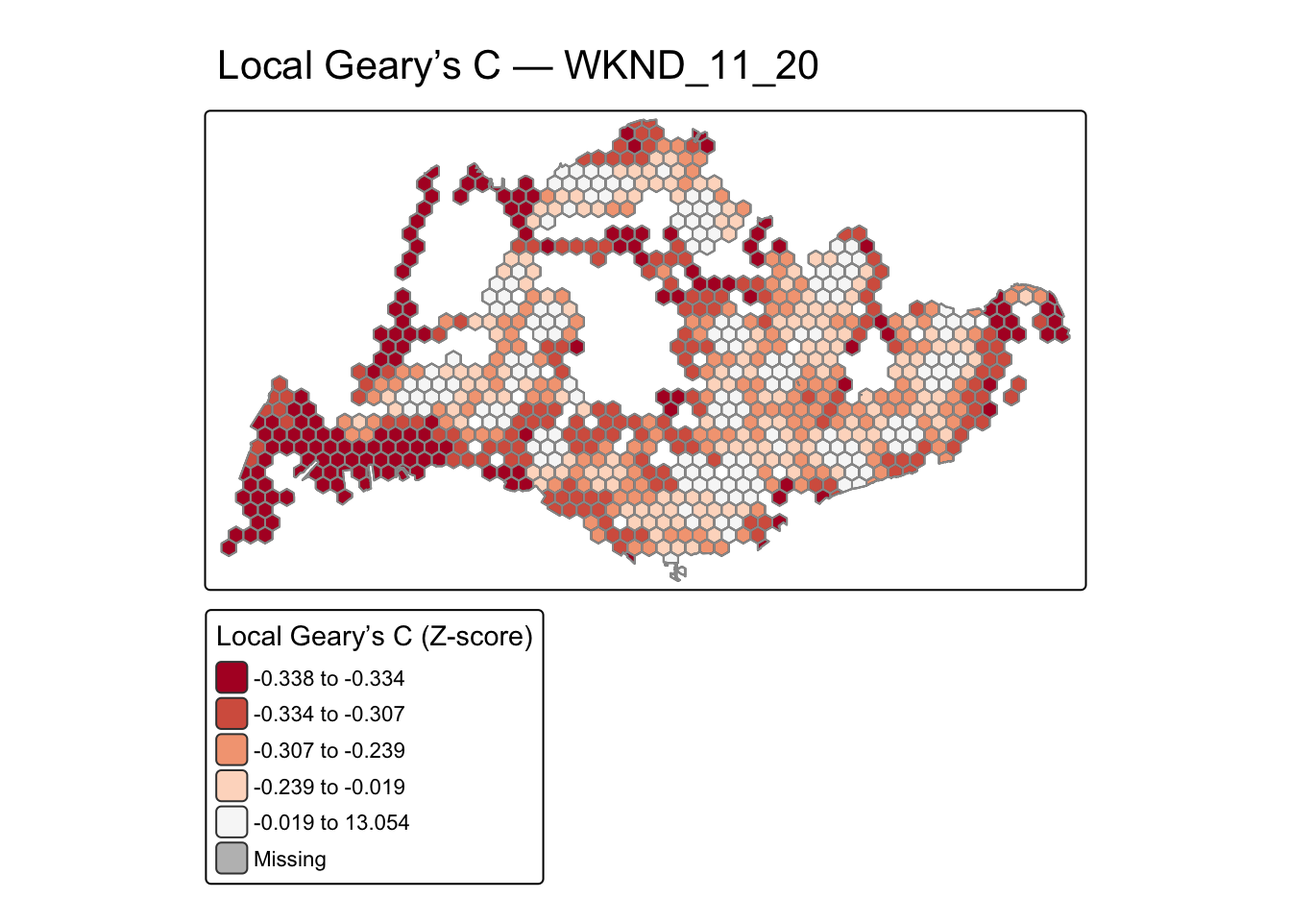
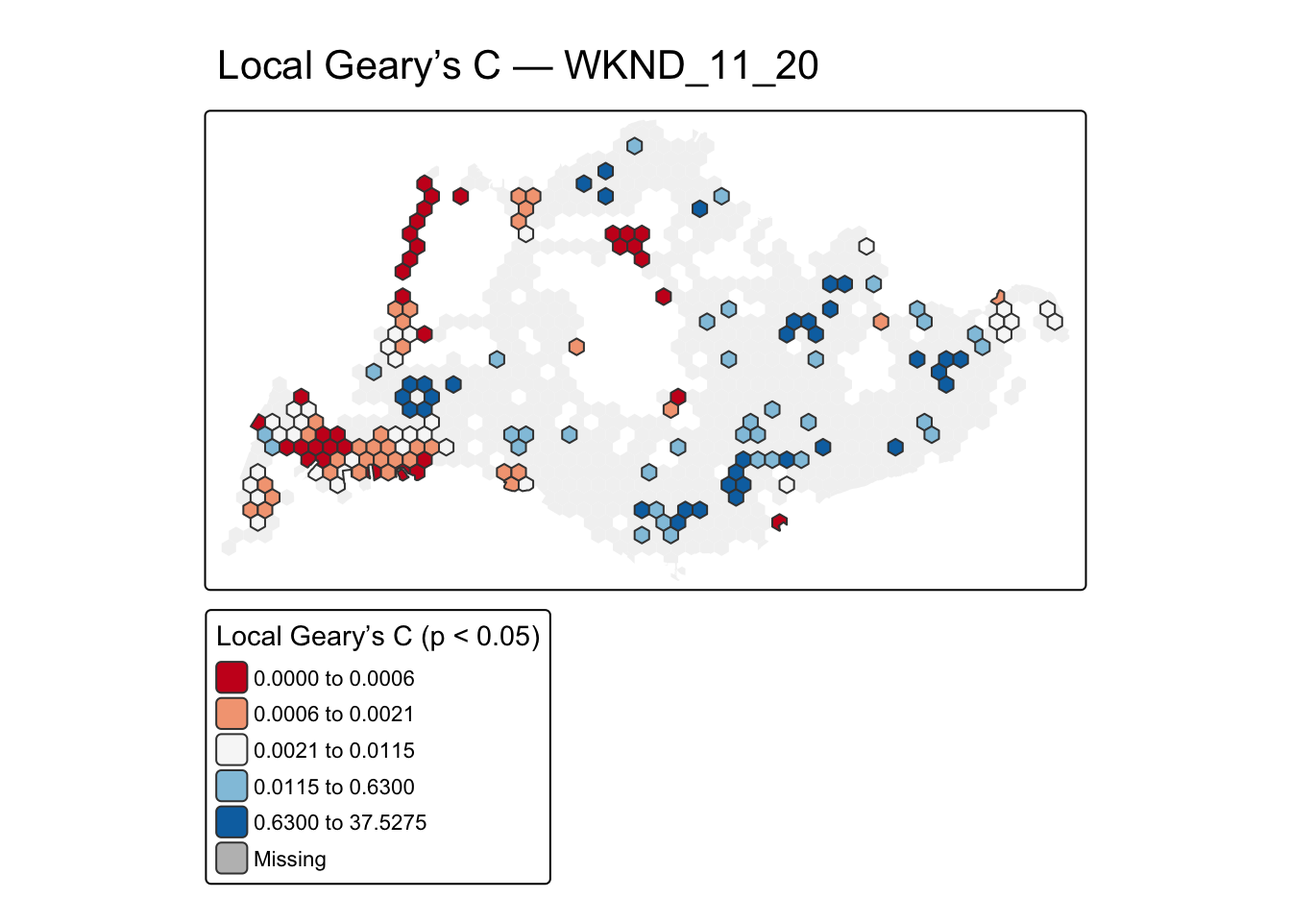
update error

Changed region(s): [[0.1562, 0.125, 0.8438, 0.625], [0.1562, 0.7188, 0.3438, 0.9062], [0.3125, 0.6562, 0.4375, 0.9688]]

diff --git a/_site/Take-home_Ex02/Take-home_Ex02.html b/_site/Take-home_Ex02/Take-home_Ex02.html
@@ -261,7 +261,7 @@ pre > code.sourceCode > span > a:first-child::before { text-decoration: underlin
   <li><a href="#setup-and-preparation" id="toc-setup-and-preparation" class="nav-link" data-scroll-target="#setup-and-preparation">3. Setup and Preparation</a>
   <ul class="collapse">
   <li><a href="#required-r-packages" id="toc-required-r-packages" class="nav-link" data-scroll-target="#required-r-packages">3.1 Required R Packages</a></li>
-  <li><a href="#directory-and-file-setup" id="toc-directory-and-file-setup" class="nav-link" data-scroll-target="#directory-and-file-setup"><strong>3.2 Directory and File Setup</strong></a></li>
+  <li><a href="#directory-and-file-setup" id="toc-directory-and-file-setup" class="nav-link" data-scroll-target="#directory-and-file-setup">3.2 Directory and File Setup</a></li>
   <li><a href="#data-wrangling" id="toc-data-wrangling" class="nav-link" data-scroll-target="#data-wrangling">3.3 Data Wrangling</a>
   <ul class="collapse">
   <li><a href="#import-geospatial-data-ura-kml-bus-stops" id="toc-import-geospatial-data-ura-kml-bus-stops" class="nav-link" data-scroll-target="#import-geospatial-data-ura-kml-bus-stops">3.3.1 Import geospatial data (URA KML &amp; Bus Stops)</a></li>
@@ -462,7 +462,7 @@ Managing peak-hour congestion and adapting to shifting post-pandemic travel beha
 </ul>
 </section>
 <section id="directory-and-file-setup" class="level2">
-<h2 class="anchored" data-anchor-id="directory-and-file-setup"><strong>3.2 Directory and File Setup</strong></h2>
+<h2 class="anchored" data-anchor-id="directory-and-file-setup">3.2 Directory and File Setup</h2>
 <p>All datasets are organized into two main folders within the project directory to ensure reproducibility and clarity of data sources.</p>
 <pre><code>Take-home_Ex02/
 ├── data/
@@ -1083,53 +1083,66 @@ During the weekend,&nbsp;<strong>High–High clusters</strong>&nbsp;reappear aro
 <div class="sourceCode cell-code" id="cb33"><pre class="sourceCode r code-with-copy"><code class="sourceCode r"><span id="cb33-1"><a href="#cb33-1" aria-hidden="true" tabindex="-1"></a>sf<span class="sc">::</span><span class="fu">sf_use_s2</span>(<span class="cn">FALSE</span>)</span>
 <span id="cb33-2"><a href="#cb33-2" aria-hidden="true" tabindex="-1"></a><span class="fu">tmap_mode</span>(<span class="st">"plot"</span>)</span>
 <span id="cb33-3"><a href="#cb33-3" aria-hidden="true" tabindex="-1"></a></span>
-<span id="cb33-4"><a href="#cb33-4" aria-hidden="true" tabindex="-1"></a>plot_geary_one_slot <span class="ot">&lt;-</span> <span class="cf">function</span>(sf_all, slot_label, <span class="at">var =</span> <span class="st">"tap_on"</span>, <span class="at">alpha =</span> <span class="fl">0.05</span>) {</span>
-<span id="cb33-5"><a href="#cb33-5" aria-hidden="true" tabindex="-1"></a>  <span class="co"># 1) Select target slot and validate geometry</span></span>
-<span id="cb33-6"><a href="#cb33-6" aria-hidden="true" tabindex="-1"></a>  df <span class="ot">&lt;-</span> sf_all <span class="sc">%&gt;%</span></span>
-<span id="cb33-7"><a href="#cb33-7" aria-hidden="true" tabindex="-1"></a>    <span class="fu">filter</span>(slot <span class="sc">==</span> slot_label) <span class="sc">%&gt;%</span></span>
-<span id="cb33-8"><a href="#cb33-8" aria-hidden="true" tabindex="-1"></a>    <span class="fu">st_make_valid</span>() <span class="sc">%&gt;%</span></span>
-<span id="cb33-9"><a href="#cb33-9" aria-hidden="true" tabindex="-1"></a>    <span class="fu">filter</span>(<span class="sc">!</span><span class="fu">is.na</span>(.data[[var]]))</span>
-<span id="cb33-10"><a href="#cb33-10" aria-hidden="true" tabindex="-1"></a></span>
-<span id="cb33-11"><a href="#cb33-11" aria-hidden="true" tabindex="-1"></a>  <span class="co"># Skip if not enough variation</span></span>
-<span id="cb33-12"><a href="#cb33-12" aria-hidden="true" tabindex="-1"></a>  <span class="cf">if</span> (<span class="fu">nrow</span>(df) <span class="sc">==</span> <span class="dv">0</span> <span class="sc">||</span> <span class="fu">length</span>(<span class="fu">unique</span>(df[[var]])) <span class="sc">&lt;=</span> <span class="dv">1</span>) {</span>
-<span id="cb33-13"><a href="#cb33-13" aria-hidden="true" tabindex="-1"></a>    <span class="fu">message</span>(<span class="fu">sprintf</span>(<span class="st">"[GearyC] '%s' slot: insufficient variation, skipped."</span>, slot_label))</span>
-<span id="cb33-14"><a href="#cb33-14" aria-hidden="true" tabindex="-1"></a>    <span class="fu">return</span>(<span class="cn">NULL</span>)</span>
-<span id="cb33-15"><a href="#cb33-15" aria-hidden="true" tabindex="-1"></a>  }</span>
-<span id="cb33-16"><a href="#cb33-16" aria-hidden="true" tabindex="-1"></a></span>
-<span id="cb33-17"><a href="#cb33-17" aria-hidden="true" tabindex="-1"></a>  <span class="co"># 2) Build neighborhood structure (Queen contiguity + snap)</span></span>
-<span id="cb33-18"><a href="#cb33-18" aria-hidden="true" tabindex="-1"></a>  nb <span class="ot">&lt;-</span> <span class="fu">poly2nb</span>(df, <span class="at">queen =</span> <span class="cn">TRUE</span>, <span class="at">snap =</span> <span class="dv">2</span>)</span>
-<span id="cb33-19"><a href="#cb33-19" aria-hidden="true" tabindex="-1"></a>  no_neigh <span class="ot">&lt;-</span> <span class="fu">card</span>(nb) <span class="sc">==</span> <span class="dv">0</span></span>
-<span id="cb33-20"><a href="#cb33-20" aria-hidden="true" tabindex="-1"></a>  <span class="cf">if</span> (<span class="fu">any</span>(no_neigh)) {</span>
-<span id="cb33-21"><a href="#cb33-21" aria-hidden="true" tabindex="-1"></a>    keep_idx <span class="ot">&lt;-</span> <span class="fu">which</span>(<span class="sc">!</span>no_neigh)</span>
-<span id="cb33-22"><a href="#cb33-22" aria-hidden="true" tabindex="-1"></a>    df <span class="ot">&lt;-</span> df[keep_idx, ]</span>
-<span id="cb33-23"><a href="#cb33-23" aria-hidden="true" tabindex="-1"></a>    nb <span class="ot">&lt;-</span> <span class="fu">subset</span>(nb, <span class="sc">!</span>no_neigh)</span>
+<span id="cb33-4"><a href="#cb33-4" aria-hidden="true" tabindex="-1"></a>plot_geary_one_slot <span class="ot">&lt;-</span> <span class="cf">function</span>(sf_all, slot_label, <span class="at">var =</span> <span class="st">"tap_on"</span>,</span>
+<span id="cb33-5"><a href="#cb33-5" aria-hidden="true" tabindex="-1"></a>                                <span class="at">alpha =</span> <span class="fl">0.05</span>, <span class="at">nsim =</span> <span class="dv">499</span>) {</span>
+<span id="cb33-6"><a href="#cb33-6" aria-hidden="true" tabindex="-1"></a>  <span class="co"># 1) Filter target slot and validate geometries</span></span>
+<span id="cb33-7"><a href="#cb33-7" aria-hidden="true" tabindex="-1"></a>  df <span class="ot">&lt;-</span> sf_all <span class="sc">%&gt;%</span></span>
+<span id="cb33-8"><a href="#cb33-8" aria-hidden="true" tabindex="-1"></a>    dplyr<span class="sc">::</span><span class="fu">filter</span>(slot <span class="sc">==</span> slot_label) <span class="sc">%&gt;%</span></span>
+<span id="cb33-9"><a href="#cb33-9" aria-hidden="true" tabindex="-1"></a>    sf<span class="sc">::</span><span class="fu">st_make_valid</span>() <span class="sc">%&gt;%</span></span>
+<span id="cb33-10"><a href="#cb33-10" aria-hidden="true" tabindex="-1"></a>    dplyr<span class="sc">::</span><span class="fu">filter</span>(<span class="sc">!</span><span class="fu">is.na</span>(.data[[var]]))</span>
+<span id="cb33-11"><a href="#cb33-11" aria-hidden="true" tabindex="-1"></a></span>
+<span id="cb33-12"><a href="#cb33-12" aria-hidden="true" tabindex="-1"></a>  <span class="co"># Skip if there is no variation</span></span>
+<span id="cb33-13"><a href="#cb33-13" aria-hidden="true" tabindex="-1"></a>  <span class="cf">if</span> (<span class="fu">nrow</span>(df) <span class="sc">==</span> <span class="dv">0</span> <span class="sc">||</span> <span class="fu">length</span>(<span class="fu">unique</span>(df[[var]])) <span class="sc">&lt;=</span> <span class="dv">1</span>) {</span>
+<span id="cb33-14"><a href="#cb33-14" aria-hidden="true" tabindex="-1"></a>    <span class="fu">message</span>(<span class="fu">sprintf</span>(<span class="st">"[GearyC] '%s' slot: insufficient variation, skipped."</span>, slot_label))</span>
+<span id="cb33-15"><a href="#cb33-15" aria-hidden="true" tabindex="-1"></a>    <span class="fu">return</span>(<span class="cn">NULL</span>)</span>
+<span id="cb33-16"><a href="#cb33-16" aria-hidden="true" tabindex="-1"></a>  }</span>
+<span id="cb33-17"><a href="#cb33-17" aria-hidden="true" tabindex="-1"></a></span>
+<span id="cb33-18"><a href="#cb33-18" aria-hidden="true" tabindex="-1"></a>  <span class="co"># 2) Build neighbors &amp; weights with sfdep (what local_c_perm expects)</span></span>
+<span id="cb33-19"><a href="#cb33-19" aria-hidden="true" tabindex="-1"></a>  nb <span class="ot">&lt;-</span> sfdep<span class="sc">::</span><span class="fu">st_contiguity</span>(df)                <span class="co"># queen contiguity</span></span>
+<span id="cb33-20"><a href="#cb33-20" aria-hidden="true" tabindex="-1"></a>  iso <span class="ot">&lt;-</span> spdep<span class="sc">::</span><span class="fu">card</span>(nb) <span class="sc">==</span> <span class="dv">0</span>                   <span class="co"># drop isolates if any</span></span>
+<span id="cb33-21"><a href="#cb33-21" aria-hidden="true" tabindex="-1"></a>  <span class="cf">if</span> (<span class="fu">any</span>(iso)) {</span>
+<span id="cb33-22"><a href="#cb33-22" aria-hidden="true" tabindex="-1"></a>    df <span class="ot">&lt;-</span> df[<span class="sc">!</span>iso, ]</span>
+<span id="cb33-23"><a href="#cb33-23" aria-hidden="true" tabindex="-1"></a>    nb <span class="ot">&lt;-</span> sfdep<span class="sc">::</span><span class="fu">st_contiguity</span>(df)</span>
 <span id="cb33-24"><a href="#cb33-24" aria-hidden="true" tabindex="-1"></a>  }</span>
-<span id="cb33-25"><a href="#cb33-25" aria-hidden="true" tabindex="-1"></a>  lw <span class="ot">&lt;-</span> <span class="fu">nb2listw</span>(nb, <span class="at">style =</span> <span class="st">"W"</span>, <span class="at">zero.policy =</span> <span class="cn">TRUE</span>)</span>
+<span id="cb33-25"><a href="#cb33-25" aria-hidden="true" tabindex="-1"></a>  wt <span class="ot">&lt;-</span> sfdep<span class="sc">::</span><span class="fu">st_weights</span>(nb, <span class="at">style =</span> <span class="st">"W"</span>, <span class="at">allow_zero =</span> <span class="cn">TRUE</span>)</span>
 <span id="cb33-26"><a href="#cb33-26" aria-hidden="true" tabindex="-1"></a></span>
-<span id="cb33-27"><a href="#cb33-27" aria-hidden="true" tabindex="-1"></a>  <span class="co"># 3) Compute Local Geary’s C</span></span>
-<span id="cb33-28"><a href="#cb33-28" aria-hidden="true" tabindex="-1"></a>  lc <span class="ot">&lt;-</span> <span class="fu">localC</span>(df[[var]], lw, <span class="at">zero.policy =</span> <span class="cn">TRUE</span>)</span>
-<span id="cb33-29"><a href="#cb33-29" aria-hidden="true" tabindex="-1"></a>  df<span class="sc">$</span>localC <span class="ot">&lt;-</span> lc</span>
-<span id="cb33-30"><a href="#cb33-30" aria-hidden="true" tabindex="-1"></a></span>
-<span id="cb33-31"><a href="#cb33-31" aria-hidden="true" tabindex="-1"></a>  <span class="co"># 4) Standardize results (Z-score approximation)</span></span>
-<span id="cb33-32"><a href="#cb33-32" aria-hidden="true" tabindex="-1"></a>  z_lc <span class="ot">&lt;-</span> <span class="fu">scale</span>(lc)</span>
-<span id="cb33-33"><a href="#cb33-33" aria-hidden="true" tabindex="-1"></a>  df<span class="sc">$</span>z_score <span class="ot">&lt;-</span> <span class="fu">as.numeric</span>(z_lc)</span>
-<span id="cb33-34"><a href="#cb33-34" aria-hidden="true" tabindex="-1"></a>  df<span class="sc">$</span>sig <span class="ot">&lt;-</span> <span class="fu">ifelse</span>(<span class="fu">abs</span>(z_lc) <span class="sc">&gt;</span> <span class="fu">qnorm</span>(<span class="dv">1</span> <span class="sc">-</span> alpha<span class="sc">/</span><span class="dv">2</span>), <span class="st">"Significant"</span>, <span class="st">"Not Sig"</span>)</span>
+<span id="cb33-27"><a href="#cb33-27" aria-hidden="true" tabindex="-1"></a>  <span class="co"># 3) Local Geary's C with permutation p-values</span></span>
+<span id="cb33-28"><a href="#cb33-28" aria-hidden="true" tabindex="-1"></a>  x  <span class="ot">&lt;-</span> <span class="fu">as.numeric</span>(df[[var]])</span>
+<span id="cb33-29"><a href="#cb33-29" aria-hidden="true" tabindex="-1"></a>  lc <span class="ot">&lt;-</span> sfdep<span class="sc">::</span><span class="fu">local_c_perm</span>(<span class="at">x =</span> x, <span class="at">nb =</span> nb, <span class="at">wt =</span> wt,</span>
+<span id="cb33-30"><a href="#cb33-30" aria-hidden="true" tabindex="-1"></a>                            <span class="at">nsim =</span> nsim, <span class="at">alternative =</span> <span class="st">"two.sided"</span>)</span>
+<span id="cb33-31"><a href="#cb33-31" aria-hidden="true" tabindex="-1"></a>  lc_df <span class="ot">&lt;-</span> <span class="fu">as.data.frame</span>(lc)                    <span class="co"># ci, p_ci, p_ci_sim, ...</span></span>
+<span id="cb33-32"><a href="#cb33-32" aria-hidden="true" tabindex="-1"></a></span>
+<span id="cb33-33"><a href="#cb33-33" aria-hidden="true" tabindex="-1"></a>  df<span class="sc">$</span>geary <span class="ot">&lt;-</span> lc_df<span class="sc">$</span>ci</span>
+<span id="cb33-34"><a href="#cb33-34" aria-hidden="true" tabindex="-1"></a>  df<span class="sc">$</span>pval  <span class="ot">&lt;-</span> lc_df<span class="sc">$</span>p_ci_sim                    <span class="co"># or use p_ci</span></span>
 <span id="cb33-35"><a href="#cb33-35" aria-hidden="true" tabindex="-1"></a></span>
-<span id="cb33-36"><a href="#cb33-36" aria-hidden="true" tabindex="-1"></a>  <span class="co"># 5) Visualization</span></span>
-<span id="cb33-37"><a href="#cb33-37" aria-hidden="true" tabindex="-1"></a>  <span class="fu">tm_shape</span>(df) <span class="sc">+</span></span>
-<span id="cb33-38"><a href="#cb33-38" aria-hidden="true" tabindex="-1"></a>    <span class="fu">tm_polygons</span>(<span class="st">"z_score"</span>,</span>
-<span id="cb33-39"><a href="#cb33-39" aria-hidden="true" tabindex="-1"></a>                <span class="at">style =</span> <span class="st">"quantile"</span>,</span>
-<span id="cb33-40"><a href="#cb33-40" aria-hidden="true" tabindex="-1"></a>                <span class="at">n =</span> <span class="dv">5</span>,</span>
-<span id="cb33-41"><a href="#cb33-41" aria-hidden="true" tabindex="-1"></a>                <span class="at">palette =</span> <span class="st">"RdBu"</span>,</span>
-<span id="cb33-42"><a href="#cb33-42" aria-hidden="true" tabindex="-1"></a>                <span class="at">title =</span> <span class="st">"Local Geary’s C (Z-score)"</span>) <span class="sc">+</span></span>
-<span id="cb33-43"><a href="#cb33-43" aria-hidden="true" tabindex="-1"></a>    <span class="fu">tm_borders</span>(<span class="at">col =</span> <span class="st">"gray60"</span>) <span class="sc">+</span></span>
-<span id="cb33-44"><a href="#cb33-44" aria-hidden="true" tabindex="-1"></a>    <span class="fu">tm_layout</span>(<span class="at">main.title =</span> <span class="fu">paste</span>(<span class="st">"Local Geary’s C —"</span>, slot_label),</span>
-<span id="cb33-45"><a href="#cb33-45" aria-hidden="true" tabindex="-1"></a>              <span class="at">legend.outside =</span> <span class="cn">TRUE</span>)</span>
-<span id="cb33-46"><a href="#cb33-46" aria-hidden="true" tabindex="-1"></a>}</span>
-<span id="cb33-47"><a href="#cb33-47" aria-hidden="true" tabindex="-1"></a></span>
-<span id="cb33-48"><a href="#cb33-48" aria-hidden="true" tabindex="-1"></a><span class="co"># Run for all three time slots</span></span>
-<span id="cb33-49"><a href="#cb33-49" aria-hidden="true" tabindex="-1"></a>slots <span class="ot">&lt;-</span> <span class="fu">c</span>(<span class="st">"WKDY_AM_06_09"</span>, <span class="st">"WKDY_PM_17_20"</span>, <span class="st">"WKND_11_20"</span>)</span>
-<span id="cb33-50"><a href="#cb33-50" aria-hidden="true" tabindex="-1"></a><span class="cf">for</span> (s <span class="cf">in</span> slots) <span class="fu">print</span>(<span class="fu">plot_geary_one_slot</span>(hex_counts_sf, s))</span></code><button title="Copy to Clipboard" class="code-copy-button"><i class="bi"></i></button></pre></div>
+<span id="cb33-36"><a href="#cb33-36" aria-hidden="true" tabindex="-1"></a>  <span class="co"># 4) Keep only significant cells (p &lt; 0.05)</span></span>
+<span id="cb33-37"><a href="#cb33-37" aria-hidden="true" tabindex="-1"></a>  df_sig <span class="ot">&lt;-</span> dplyr<span class="sc">::</span><span class="fu">filter</span>(df, <span class="sc">!</span><span class="fu">is.na</span>(pval) <span class="sc">&amp;</span> pval <span class="sc">&lt;</span> alpha)</span>
+<span id="cb33-38"><a href="#cb33-38" aria-hidden="true" tabindex="-1"></a></span>
+<span id="cb33-39"><a href="#cb33-39" aria-hidden="true" tabindex="-1"></a>  <span class="co"># 5) Plot: grey background; color only significant cells</span></span>
+<span id="cb33-40"><a href="#cb33-40" aria-hidden="true" tabindex="-1"></a>  <span class="cf">if</span> (<span class="fu">nrow</span>(df_sig) <span class="sc">==</span> <span class="dv">0</span>) {</span>
+<span id="cb33-41"><a href="#cb33-41" aria-hidden="true" tabindex="-1"></a>    <span class="fu">return</span>(</span>
+<span id="cb33-42"><a href="#cb33-42" aria-hidden="true" tabindex="-1"></a>      tmap<span class="sc">::</span><span class="fu">tm_shape</span>(df) <span class="sc">+</span></span>
+<span id="cb33-43"><a href="#cb33-43" aria-hidden="true" tabindex="-1"></a>        tmap<span class="sc">::</span><span class="fu">tm_polygons</span>(<span class="at">col =</span> <span class="st">"grey95"</span>, <span class="at">border.alpha =</span> <span class="dv">0</span>) <span class="sc">+</span></span>
+<span id="cb33-44"><a href="#cb33-44" aria-hidden="true" tabindex="-1"></a>        tmap<span class="sc">::</span><span class="fu">tm_title</span>(<span class="fu">paste0</span>(<span class="st">"Local Geary’s C — "</span>, slot_label, <span class="st">" (no significant cells)"</span>)) <span class="sc">+</span></span>
+<span id="cb33-45"><a href="#cb33-45" aria-hidden="true" tabindex="-1"></a>        tmap<span class="sc">::</span><span class="fu">tm_layout</span>(<span class="at">legend.outside =</span> <span class="cn">TRUE</span>)</span>
+<span id="cb33-46"><a href="#cb33-46" aria-hidden="true" tabindex="-1"></a>    )</span>
+<span id="cb33-47"><a href="#cb33-47" aria-hidden="true" tabindex="-1"></a>  } <span class="cf">else</span> {</span>
+<span id="cb33-48"><a href="#cb33-48" aria-hidden="true" tabindex="-1"></a>    <span class="fu">return</span>(</span>
+<span id="cb33-49"><a href="#cb33-49" aria-hidden="true" tabindex="-1"></a>      tmap<span class="sc">::</span><span class="fu">tm_shape</span>(df) <span class="sc">+</span></span>
+<span id="cb33-50"><a href="#cb33-50" aria-hidden="true" tabindex="-1"></a>        tmap<span class="sc">::</span><span class="fu">tm_polygons</span>(<span class="at">col =</span> <span class="st">"grey95"</span>, <span class="at">border.alpha =</span> <span class="dv">0</span>) <span class="sc">+</span></span>
+<span id="cb33-51"><a href="#cb33-51" aria-hidden="true" tabindex="-1"></a>      tmap<span class="sc">::</span><span class="fu">tm_shape</span>(df_sig) <span class="sc">+</span></span>
+<span id="cb33-52"><a href="#cb33-52" aria-hidden="true" tabindex="-1"></a>        tmap<span class="sc">::</span><span class="fu">tm_polygons</span>(<span class="st">"geary"</span>,</span>
+<span id="cb33-53"><a href="#cb33-53" aria-hidden="true" tabindex="-1"></a>                          <span class="at">palette =</span> <span class="st">"RdBu"</span>, <span class="at">style =</span> <span class="st">"quantile"</span>, <span class="at">n =</span> <span class="dv">5</span>,</span>
+<span id="cb33-54"><a href="#cb33-54" aria-hidden="true" tabindex="-1"></a>                          <span class="at">title =</span> <span class="st">"Local Geary’s C (p &lt; 0.05)"</span>) <span class="sc">+</span></span>
+<span id="cb33-55"><a href="#cb33-55" aria-hidden="true" tabindex="-1"></a>        tmap<span class="sc">::</span><span class="fu">tm_layout</span>(<span class="at">main.title =</span> <span class="fu">paste</span>(<span class="st">"Local Geary’s C —"</span>, slot_label),</span>
+<span id="cb33-56"><a href="#cb33-56" aria-hidden="true" tabindex="-1"></a>                        <span class="at">legend.outside =</span> <span class="cn">TRUE</span>)</span>
+<span id="cb33-57"><a href="#cb33-57" aria-hidden="true" tabindex="-1"></a>    )</span>
+<span id="cb33-58"><a href="#cb33-58" aria-hidden="true" tabindex="-1"></a>  }</span>
+<span id="cb33-59"><a href="#cb33-59" aria-hidden="true" tabindex="-1"></a>}</span>
+<span id="cb33-60"><a href="#cb33-60" aria-hidden="true" tabindex="-1"></a></span>
+<span id="cb33-61"><a href="#cb33-61" aria-hidden="true" tabindex="-1"></a><span class="co"># Run for all three time slots</span></span>
+<span id="cb33-62"><a href="#cb33-62" aria-hidden="true" tabindex="-1"></a>slots <span class="ot">&lt;-</span> <span class="fu">c</span>(<span class="st">"WKDY_AM_06_09"</span>, <span class="st">"WKDY_PM_17_20"</span>, <span class="st">"WKND_11_20"</span>)</span>
+<span id="cb33-63"><a href="#cb33-63" aria-hidden="true" tabindex="-1"></a><span class="cf">for</span> (s <span class="cf">in</span> slots) <span class="fu">print</span>(<span class="fu">plot_geary_one_slot</span>(hex_counts_sf, s, <span class="at">nsim =</span> <span class="dv">499</span>))</span></code><button title="Copy to Clipboard" class="code-copy-button"><i class="bi"></i></button></pre></div>
 <div class="cell-output-display">
 <div>
 <figure class="figure">
@@ -1152,9 +1165,9 @@ During the weekend,&nbsp;<strong>High–High clusters</strong>&nbsp;reappear aro
 </div>
 </div>
 </div>
-<p>Although the spatial patterns revealed by Local Geary’s C are broadly consistent with those identified by the Local Moran’s I (LISA) analysis, the Geary’s C maps display slightly wider red regions indicating strong local similarity. This difference arises from the conceptual focus of the two statistics.</p>
-<p>LISA emphasizes the <strong>direction of spatial association</strong>, identifying where high or low values cluster together (e.g., High–High or Low–Low regions). In contrast, Local Geary’s C measures the <strong>degree of local dissimilarity</strong>, capturing how similar or different each area is compared to its neighbors. As a result, areas with very similar values—regardless of whether they are high or low—exhibit low Geary’s C values and are shown in red.</p>
-<p>Consequently, Geary’s C not only reaffirms the key clusters detected by LISA (e.g., CBD, Tampines, Jurong East) but also highlights transitional zones and boundary regions where spatial similarity gradually changes. Together, the two measures provide a more comprehensive understanding of both <strong>cluster strength and internal homogeneity</strong> within Singapore’s urban mobility patterns.</p>
+<p>Although the spatial patterns revealed by the Local Geary’s C are generally consistent with those identified by the Local Moran’s I (LISA) analysis, the Geary’s C maps—filtered for statistically significant (p &lt; 0.05) cells—display slightly broader clusters of red and blue hexagons, indicating zones of strong local similarity or dissimilarity.</p>
+<p>Unlike LISA, which emphasizes the <em>direction</em> of spatial association by identifying whether high or low values cluster together (e.g., High–High or Low–Low regions), Local Geary’s C focuses on the <em>intensity</em> of local variation between each cell and its neighbors. Low Geary’s C values (red areas) represent strong local homogeneity (similar values among adjacent hexagons), while high values (blue areas) reflect greater local contrast (dissimilar values).</p>
+<p>Consequently, Geary’s C not only reconfirms the key clusters highlighted by LISA — such as CBD, Tampines, and Jurong East — but also exposes subtle transitional and boundary zones where spatial similarity gradually changes. Together, the two statistics provide a more comprehensive understanding of both the <em>strength of clustering</em> and the <em>internal consistency</em> of Singapore’s urban mobility patterns.</p>
 </section>
 <section id="getisord-gi-statistic" class="level3">
 <h3 class="anchored" data-anchor-id="getisord-gi-statistic">4.3.3 Getis–Ord Gi* Statistic</h3>
@@ -4109,8 +4122,8 @@ WARNING: Error exit, tauk2. IFAULT =  12</code></pre>
 </section>
 <section id="conclusion" class="level1">
 <h1>5. Conclusion</h1>
-<p>This study analyzed Singapore’s bus boarding patterns from July to September 2025 using a 375m hexagonal grid, aiming to uncover fine-grained spatial and temporal trends in passenger activity. By systematically applying both Local Measures of Spatial Autocorrelation (LMSA) and Emerging Hot Spot Analysis (EHSA), the study identified localized clustering and temporal change patterns that could not be captured through global statistics alone.</p>
-<p>The LMSA results revealed statistically significant (p &lt; 0.05) high-demand hot spots (High-High) in the Central Business District (CBD), Tampines, Jurong East, and Woodlands during the weekday morning peak (6–9 a.m.), while low-demand cold spots (Low-Low) were observed in industrial zones such as Tuas and Jurong Island. The Getis–Ord Gi* statistic further quantified the strength and persistence of these clusters, indicating distinct directional flows — north-to-south commuting toward the CBD in the morning, reverse movements during the evening peak, and leisure-oriented mobility toward Orchard, Tampines, and other retail centers on weekends.</p>
+<p>This study analyzed Singapore’s bus boarding patterns from July to September 2025 using a 375 m hexagonal grid, aiming to uncover fine-grained spatial and temporal trends in passenger activity. By systematically applying both Local Measures of Spatial Autocorrelation (LMSA) and Emerging Hot Spot Analysis (EHSA), the study identified localized clustering and temporal change patterns that could not be captured through global statistics alone.</p>
+<p>The LMSA results revealed statistically significant (p &lt; 0.05) high-demand hot spots (High–High) in the Central Business District (CBD), Tampines, Jurong East, and Woodlands during the weekday morning peak (6–9 a.m.), while low-demand cold spots (Low–Low) were observed in industrial zones such as Tuas and Jurong Island. <strong>Local Geary’s C further captured strong local similarity and boundary transitions, highlighting homogeneity within clusters and subtle changes at their edges.</strong> The Getis–Ord Gi* statistic quantified the strength and persistence of these clusters, indicating distinct directional flows — north-to-south commuting toward the CBD in the morning, reverse movements during the evening peak, and leisure-oriented mobility toward Orchard, Tampines, and other retail centers on weekends.</p>
 <p>Although EHSA was applied across a short three-month window, no statistically significant (p &lt; 0.05) temporal trends were detected. The spatial configuration of hot and cold spots remained stable, suggesting short-term stability rather than long-term persistence. A longer time horizon (e.g., 12 months) is recommended to identify emerging or diminishing trends with stronger statistical power.</p>
 <p>Based on these findings, several operational and planning insights can be drawn:</p>
 <ul>
@@ -4118,7 +4131,7 @@ WARNING: Error exit, tauk2. IFAULT =  12</code></pre>
 <li><p>Weekend periods: Introduce shuttle services connecting suburban areas to regional shopping centers.</p></li>
 <li><p>Long-term strategy: Monitor demand growth in former cold-spot regions and prioritize proactive infrastructure investment.</p></li>
 </ul>
-<p>In conclusion, the integrated use of LMSA and EHSA provides a robust data-driven framework for precise demand forecasting and adaptive public transport service design in Singapore. Future studies could extend the analysis to a longer time frame and incorporate additional datasets, such as alighting and smart-card records, to capture the full journey dynamics of urban mobility.</p>
+<p>In conclusion, the integrated use of <strong>LISA, Geary’s C, Gi*</strong>, and <strong>EHSA</strong> provides a robust data-driven framework for precise demand forecasting and adaptive public transport service design in Singapore. Future studies could extend the analysis to a longer time frame and incorporate additional datasets, such as alighting and smart-card records, to capture the full journey dynamics of urban mobility.</p>
 </section>
 <section id="references" class="level1">
 <h1>6. References</h1>
